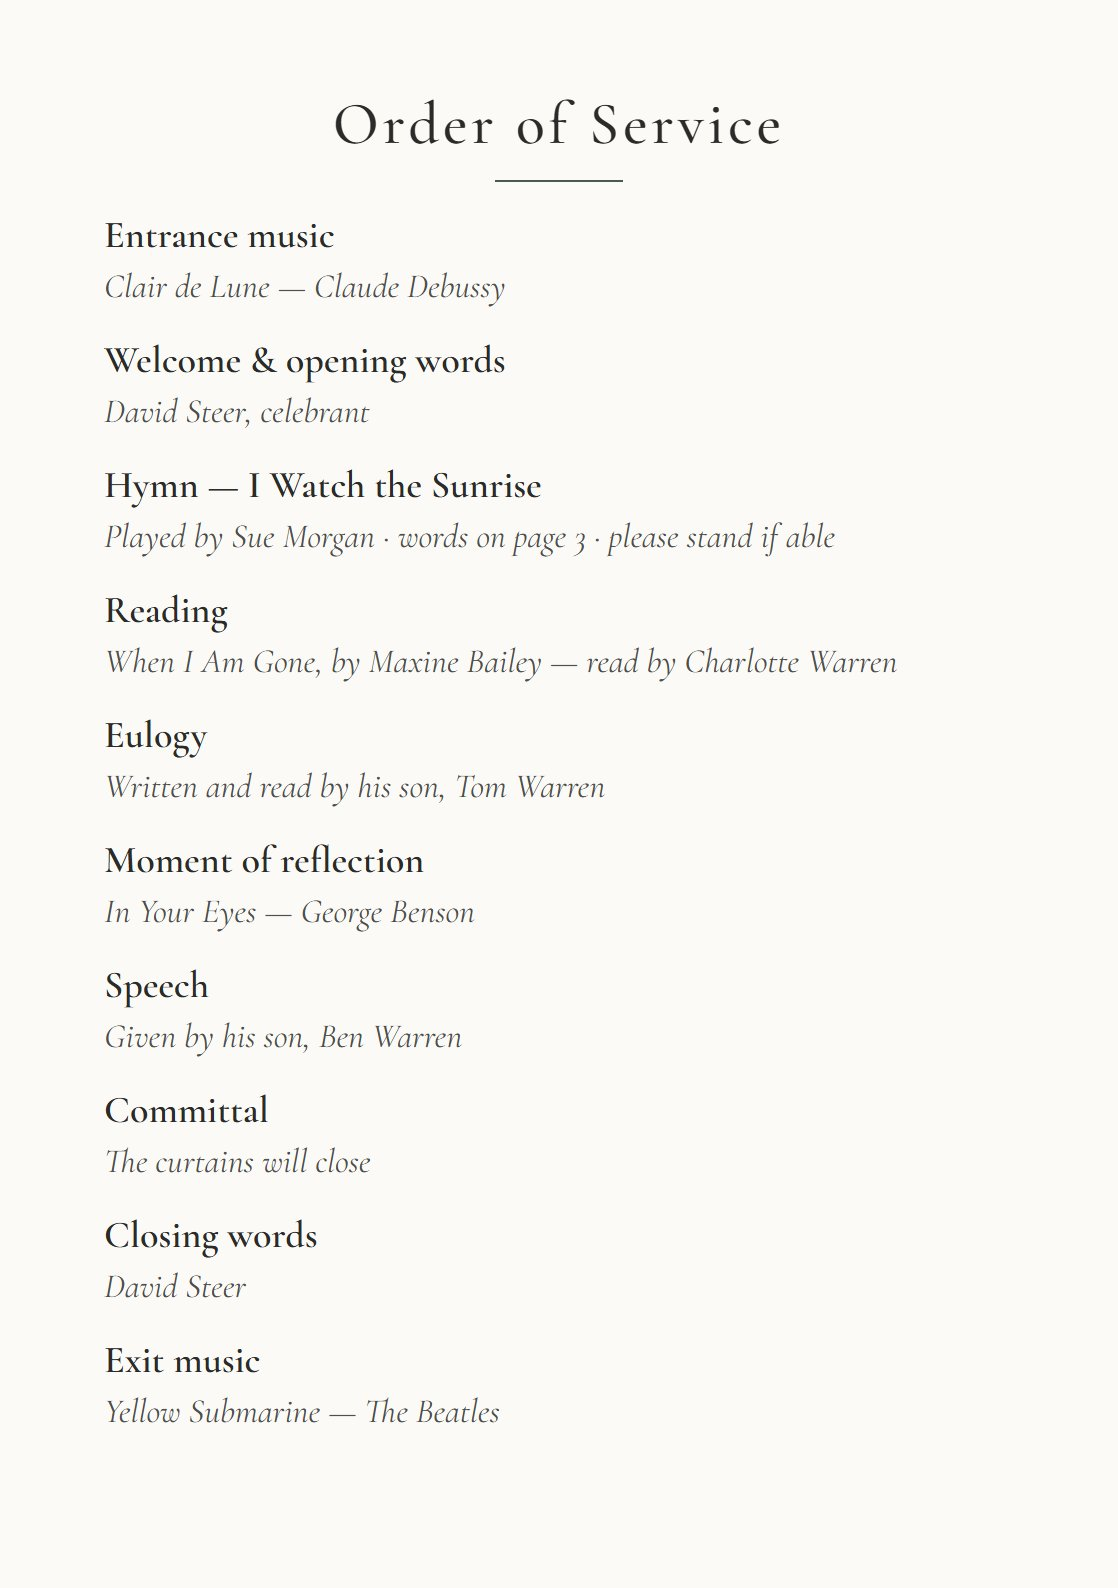
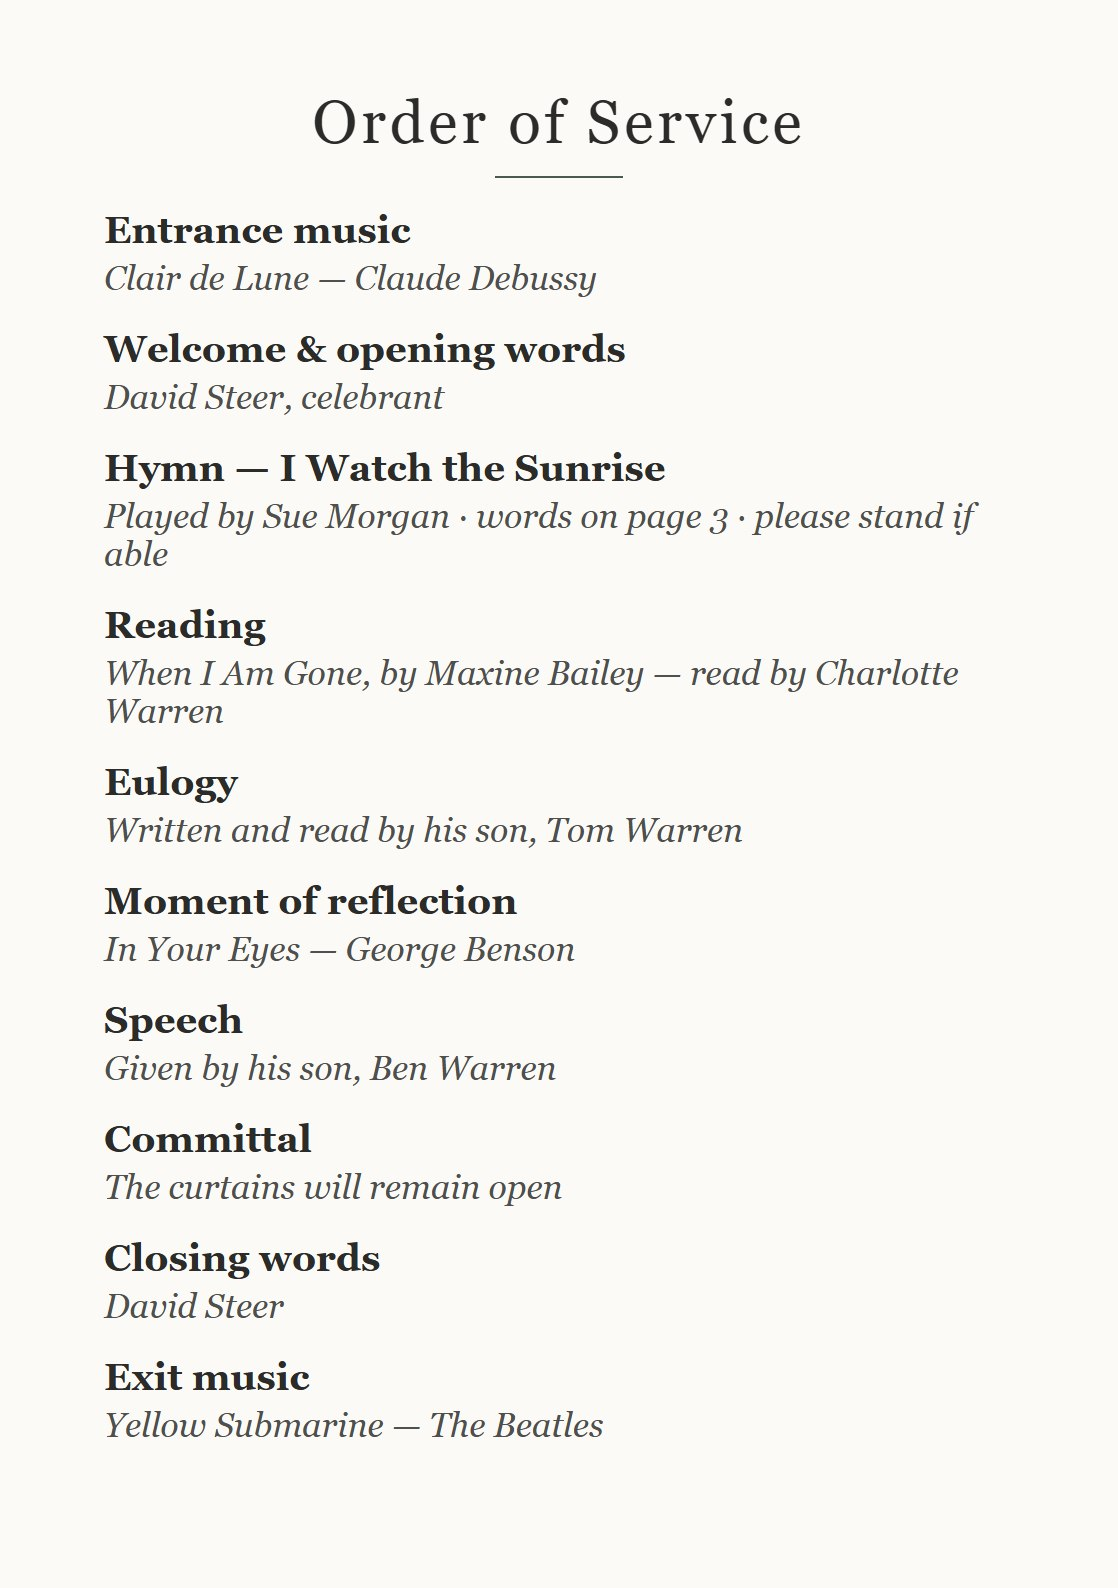
Page 2: curtains remain open at committal

diff --git a/flip/order-of-service.html b/flip/order-of-service.html
@@ -23,7 +23,7 @@
   </nav>
   <p class="hint">Tap or drag a page corner to turn it.</p>
 </main>
-<script>window.BOOK = { label: "Order of service", pages: ["pages/oos-1.jpg","pages/oos-2.jpg","pages/oos-3.jpg","pages/oos-4.jpg","pages/oos-5.jpg?v=2","pages/oos-6.jpg","pages/oos-7.jpg?v=2","pages/oos-8.jpg"] };</script>
+<script>window.BOOK = { label: "Order of service", pages: ["pages/oos-1.jpg","pages/oos-2.jpg?v=2","pages/oos-3.jpg","pages/oos-4.jpg","pages/oos-5.jpg?v=2","pages/oos-6.jpg","pages/oos-7.jpg?v=2","pages/oos-8.jpg"] };</script>
 <script src="https://cdn.jsdelivr.net/npm/page-flip@2.0.7/dist/js/page-flip.browser.js"></script>
 <script src="flip.js"></script>
 </body>

diff --git a/index.html b/index.html
@@ -343,7 +343,7 @@ if(location.hash==="#drafts")show("drafts");
 /* ---- drafts ---- */
 const DRAFTS=[
  ["Order of service","p1","Page 1 · Front cover","drafts/Ivor-1-front-cover.jpg?v=10"],
- ["Order of service","p2","Page 2 · Order of service","drafts/Ivor-2-order-of-service.jpg?v=14"],
+ ["Order of service","p2","Page 2 · Order of service","drafts/Ivor-2-order-of-service.jpg?v=15"],
  ["Order of service","p3","Page 3 · Hymn","drafts/Ivor-3-hymn.jpg?v=13"],
  ["Order of service","p5","Page 4 · Reading","drafts/Ivor-5-about-ivor.jpg?v=10"],
  ["Order of service","p6","Page 5 · Remembering Ivor","drafts/Ivor-6-photos.jpg?v=11"],
